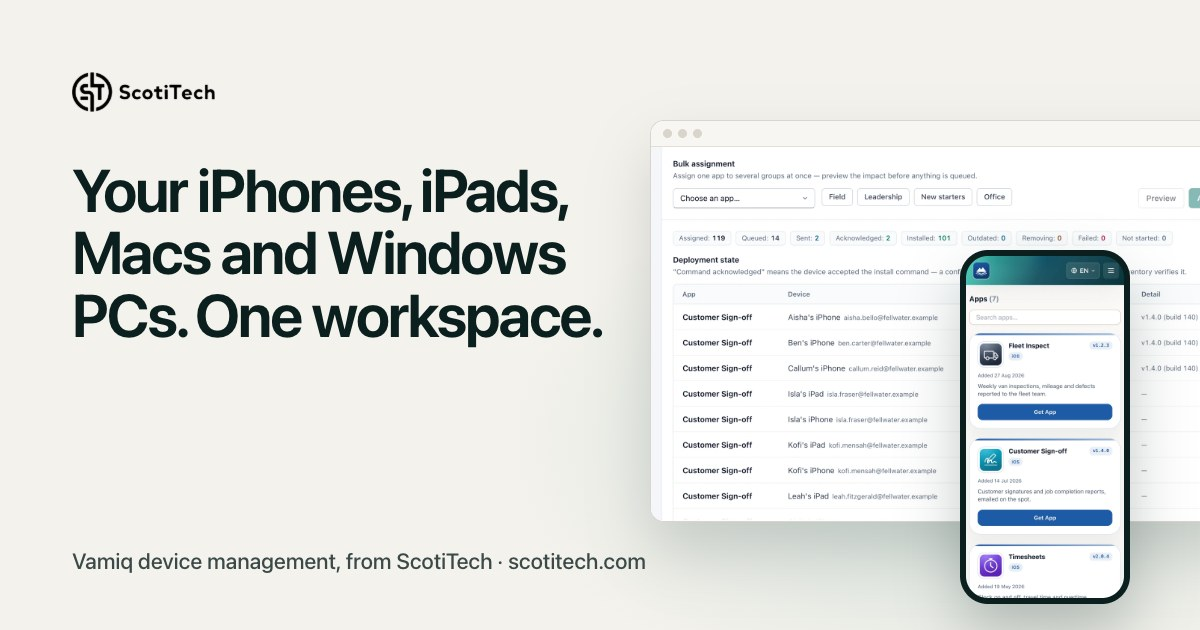
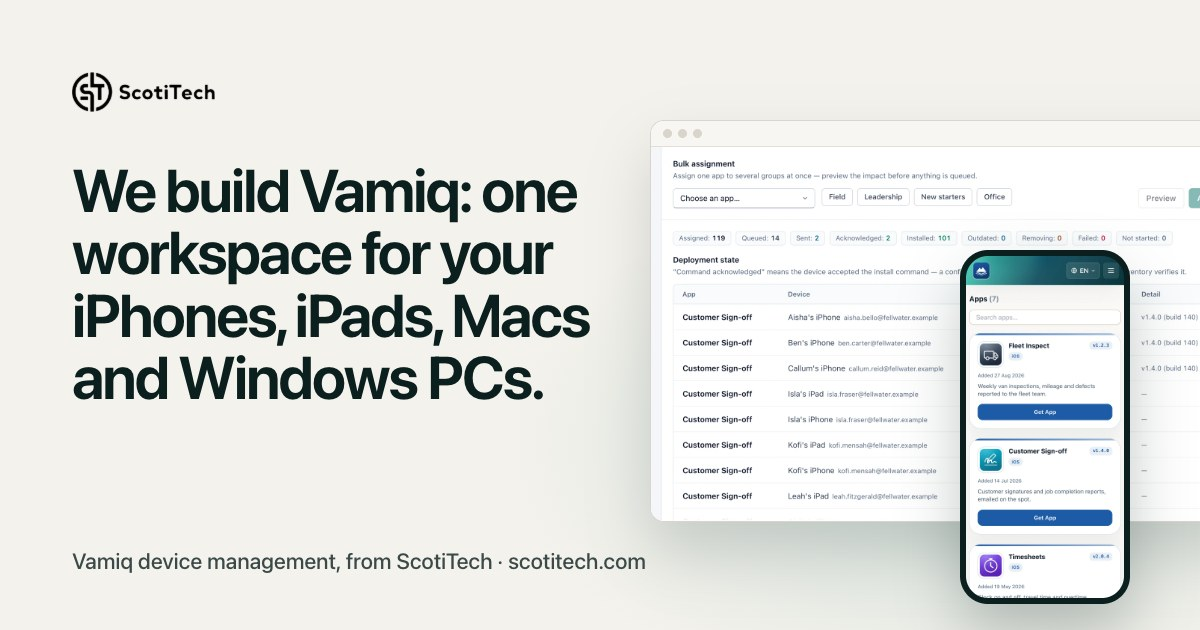
Reword the headings that repeated vamiq.app word for word
The home headline, "Live in three steps.", "Start free. Pay per device as
you grow." and "Security on every plan, Free included." matched vamiq.app
exactly. They now speak as the company behind Vamiq:

- "We build Vamiq: one workspace for your iPhones, iPads, Macs and Windows PCs."
- "Up and running in three steps."
- "Free for five devices. Simple prices after that."
- "Security built in, from the free plan up."

The same lines change on /products, /products/vamiq and the home share card.

Changed region(s): [[0.0617, 0.2714, 0.5242, 0.6333]]

diff --git a/src/components/home/HeroSection.jsx b/src/components/home/HeroSection.jsx
@@ -22,15 +22,15 @@ export default function HeroSection() {
       />
       <Container className="relative">
         <div className="mx-auto max-w-[920px] text-center">
-          <p className="t-eyebrow reveal-now">Vamiq, from ScotiTech</p>
+          <p className="t-eyebrow reveal-now">Device management for small businesses</p>
           <h1 className="t-display reveal-now mt-4">
-            Your iPhones, iPads, Macs and Windows PCs. One workspace.
+            We build Vamiq: one workspace for your iPhones, iPads, Macs and Windows PCs.
           </h1>
           <p
             className="reveal-now mx-auto mt-6 max-w-[700px] text-[clamp(1.0625rem,1rem+0.35vw,1.25rem)] leading-[1.6] text-body"
             style={{ animationDelay: "0.08s" }}
           >
-            ScotiTech makes Vamiq (formerly AppDeploy), device management for small and growing
+            Vamiq (formerly AppDeploy) is device management for small and growing
             businesses. Set up and secure your team&apos;s devices, install apps, and put your private
             apps on your Apple devices through your own branded app store.
           </p>

diff --git a/src/lib/products.js b/src/lib/products.js
@@ -29,7 +29,7 @@ export const products = {
       { label: "Platforms", value: "iPhone · iPad · Mac · Windows" },
     ],
     featuresTitle: "One workspace for the apps, the devices and the releases.",
-    howItWorksTitle: "Live in three steps.",
+    howItWorksTitle: "Up and running in three steps.",
     statement: {
       eyebrow: "Why Vamiq exists",
       title: "Apple Business stays underneath. Vamiq is the layer teams were building themselves.",
@@ -156,7 +156,7 @@ export const products = {
       ],
     },
     security: {
-      title: "Security on every plan, Free included",
+      title: "Security built in, from the free plan up",
       points: [
         "Customer data is hosted in the UK and backed up daily.",
         "Traffic over HTTPS; Apple Business credentials, integration secrets and push-certificate keys encrypted at rest with AES-256-GCM.",

diff --git a/src/components/home/ProductsSection.jsx b/src/components/home/ProductsSection.jsx
@@ -80,7 +80,7 @@ export default function ProductsSection({ showIntro = true }) {
                 <Badge variant="onInk">Live</Badge>
               </div>
               <h3 className="mt-7 font-serif text-[clamp(1.75rem,1.3rem+1.6vw,2.5rem)] font-normal leading-[1.12] tracking-[-0.01em] text-white">
-                Your iPhones, iPads, Macs and Windows PCs. One workspace.
+                Every iPhone, iPad, Mac and Windows PC your team uses, managed together.
               </h3>
               <p className="mt-5 max-w-xl text-[16px] leading-7 text-white/75">
                 Device management for small and growing businesses. Set up and secure your team&apos;s

diff --git a/src/components/home/SecuritySection.jsx b/src/components/home/SecuritySection.jsx
@@ -56,7 +56,7 @@ export default function SecuritySection({ showTrustLink = true }) {
       <div className="grid gap-12 lg:grid-cols-[minmax(0,0.8fr)_minmax(0,1.2fr)] lg:gap-16">
         <Reveal className="lg:sticky lg:top-28 lg:self-start">
           <p className="t-eyebrow">Security</p>
-          <h2 className="t-h1 mt-3">Security on every plan, Free included.</h2>
+          <h2 className="t-h1 mt-3">Security built in, from the free plan up.</h2>
           <p className="t-lead mt-5">
             Built into every Vamiq workspace, with the documents a security review asks for published
             in one place.

diff --git a/src/components/home/PricingSection.jsx b/src/components/home/PricingSection.jsx
@@ -39,7 +39,7 @@ export default function PricingSection() {
             <div className="relative">
               <p className="text-[12px] font-semibold uppercase tracking-[0.16em] text-[#9fe0d4]">Pricing</p>
               <h2 className="mt-3 font-serif text-[clamp(1.9rem,1.4rem+1.8vw,2.75rem)] font-normal leading-[1.1] tracking-[-0.01em]">
-                Start free. Pay per device as you grow.
+                Free for five devices. Simple prices after that.
               </h2>
               <dl className="mt-10 grid gap-6 md:grid-cols-3">
                 {tiers.map((t) => (

diff --git a/scripts/og-cards.html b/scripts/og-cards.html
@@ -64,7 +64,7 @@
     <div class="glow"></div>
     <div class="copy">
       <img class="wordmark" src="../public/logo/scotitech-wordmark.png" alt="">
-      <h1>Your iPhones, iPads, Macs and Windows PCs. One workspace.</h1>
+      <h1>We build Vamiq: one workspace for your iPhones, iPads, Macs and Windows PCs.</h1>
     </div>
     <div class="win"><div class="bar"><i></i><i></i><i></i></div><img src="../public/media/vamiq/vamiq-hero-poster-20261021.webp" alt=""></div>
     <img class="phone" src="../public/media/vamiq/vamiq-hero-phone-20261021.webp" alt="">

diff --git a/src/components/home/VamiqSection.jsx b/src/components/home/VamiqSection.jsx
@@ -131,7 +131,7 @@ export default function VamiqSection() {
 
         <div className="mt-20 grid gap-10 lg:grid-cols-[minmax(0,0.8fr)_minmax(0,1.2fr)] lg:gap-16">
           <Reveal>
-            <h2 className="t-h2">Live in three steps.</h2>
+            <h2 className="t-h2">Up and running in three steps.</h2>
             <p className="t-lead mt-4">
               Every trial includes a free 30-minute setup call: we help you connect Apple Business and
               enrol your first device. Email{" "}
